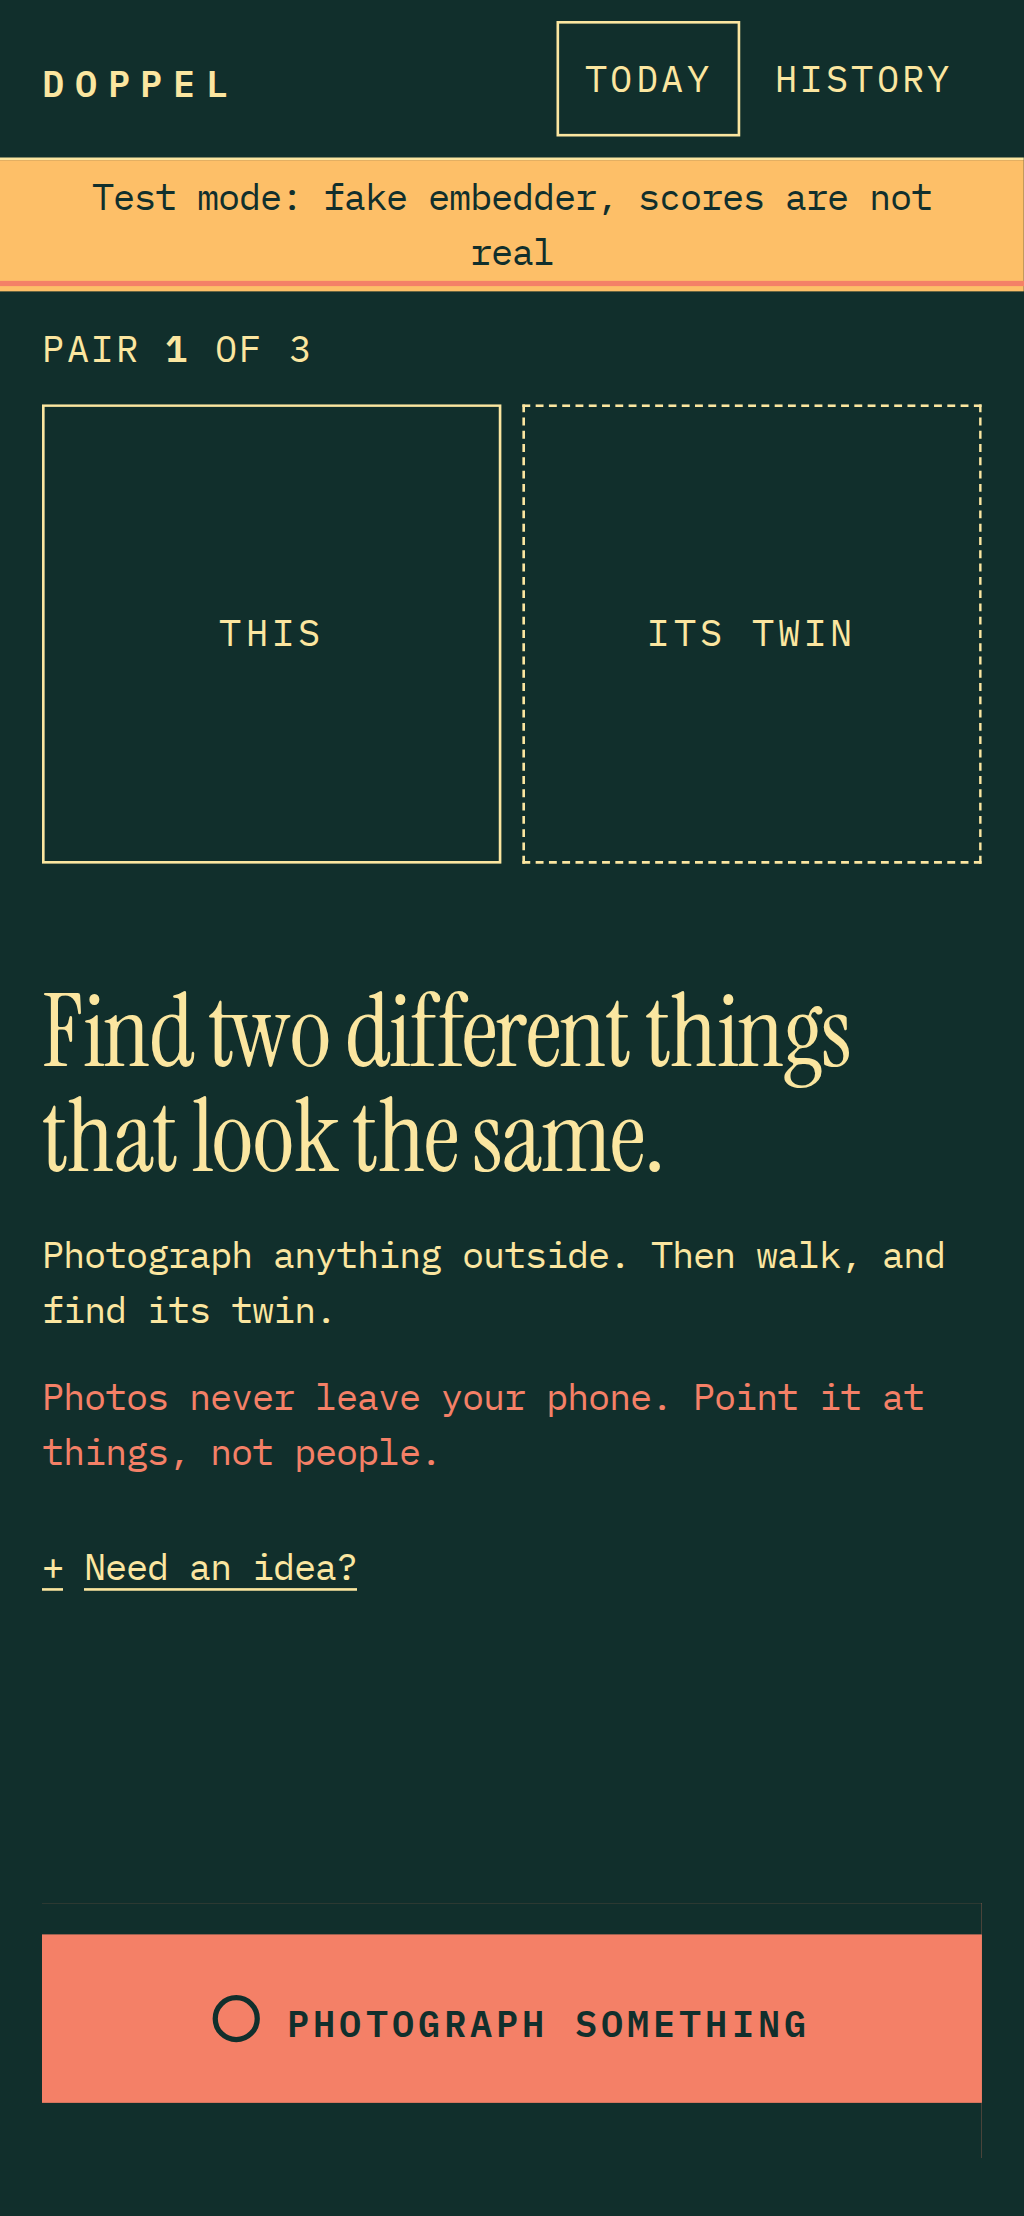
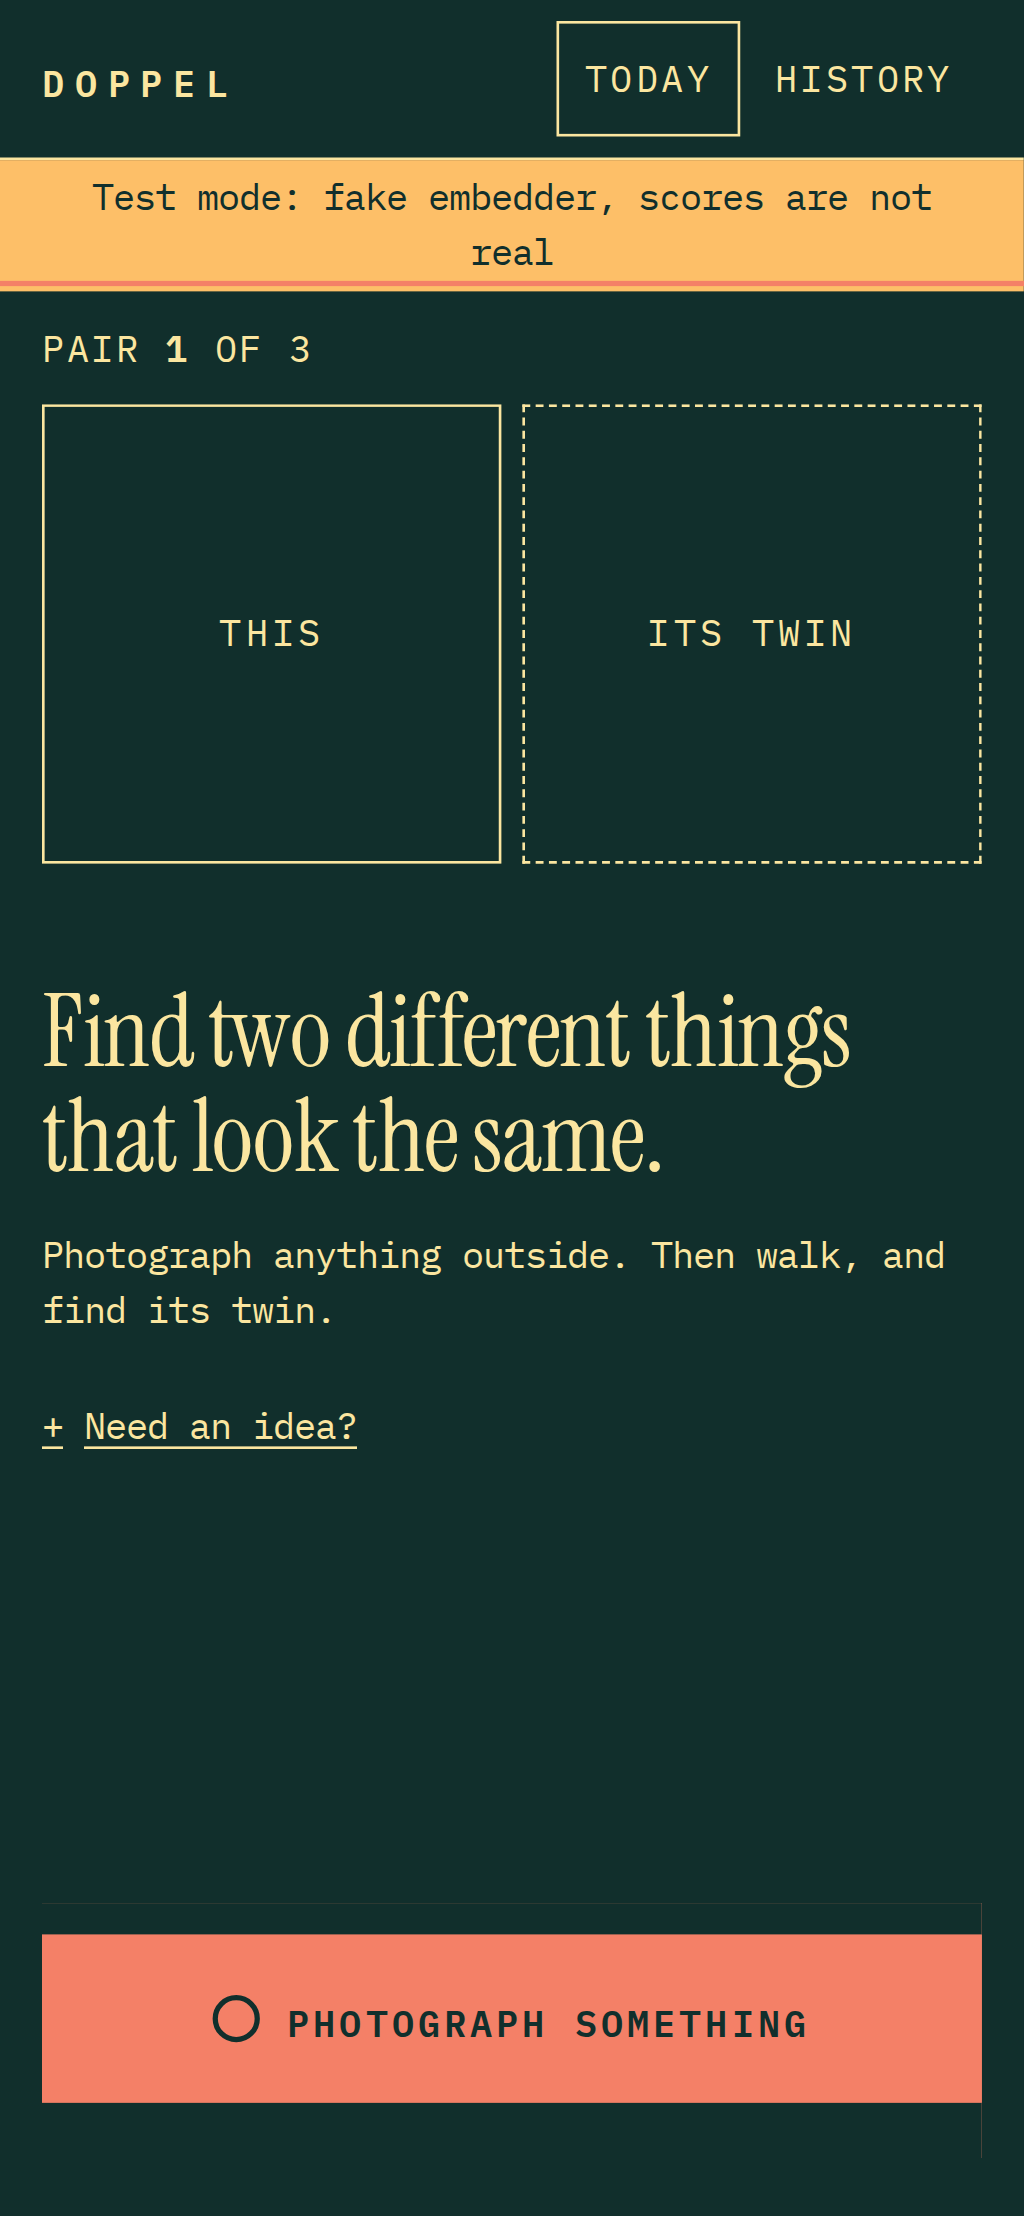
D5: first run practice reveal while the model downloads

diff --git a/web/src/ui/screens.ts b/web/src/ui/screens.ts
@@ -2,7 +2,7 @@
 // the pair frame, two square slots side by side. Empty, it explains the game;
 // then the first print fills the left slot, the walk counts down in the right
 // one, the twin fills it, and at the reveal the two prints slide together.
-import { BANDS, BAND_NAMES, NOTHING_SHARED, type Band } from "../twin";
+import { band, BANDS, BAND_NAMES, NOTHING_SHARED, type Band } from "../twin";
 import type { PairState } from "../day";
 import { PAIRS_PER_DAY } from "../day";
 import type { WalkStatus } from "../walk";
@@ -49,7 +49,44 @@ const dock = (button: string, extra = "") => `
     ${extra}
   </div>`;
 
-export function firstView(pair: number, ideas: string[], firstRun: boolean): string {
+export interface Practice {
+  first: { label: string };
+  twin: { label: string };
+  score: number;
+  shared: string[];
+}
+
+/** First run: a real reveal of two bundled photos, played while the model downloads. */
+export function practiceView(p: Practice): string {
+  const b = band(p.score);
+  return `
+    <div class="practice" aria-label="Practice reveal" data-testid="practice">
+      <p class="label">A practice pair, while Doppel downloads</p>
+      <div class="pair together" id="practice-pair">
+        ${slot("a", `<canvas id="practice-a" aria-label="${esc(p.first.label)}, printed"></canvas>`)}
+        ${slot("b", `<canvas id="practice-b" aria-label="${esc(p.twin.label)}, printed"></canvas>`)}
+      </div>
+      <p class="labels">${esc(p.first.label)} <span aria-label="and">↔</span> ${esc(p.twin.label)}</p>
+      <p class="score compact" data-value="${p.score}"><span class="n">${p.score}</span><span class="of">/100</span> <span class="band-inline">${bandMarks(b)} ${BAND_NAMES[b].toUpperCase()}</span></p>
+      <p class="shared"><span class="label">What they share</span> Both: ${p.shared.map(esc).join(" · ")}</p>
+    </div>`;
+}
+
+export function firstView(pair: number, ideas: string[], firstRun: boolean, practice?: Practice): string {
+  if (firstRun && practice) {
+    return `
+    <section class="screen first" aria-label="First photo">
+      ${hud(pair)}
+      <h1 class="voice lede">Find two different things that look the same. Outside.</h1>
+      ${practiceView(practice)}
+      <p class="sub privacy">Photos never leave your phone. Point it at things, not people.</p>
+      <details class="ideas">
+        <summary>Need an idea?</summary>
+        <ul data-testid="ideas">${ideas.map((i) => `<li>${esc(i)}</li>`).join("")}</ul>
+      </details>
+      ${dock(shootButton("Photograph something"))}
+    </section>`;
+  }
   return `
     <section class="screen first" aria-label="First photo">
       ${hud(pair)}

diff --git a/web/src/main.ts b/web/src/main.ts
@@ -13,7 +13,8 @@ import { drawPrint, type Tone } from "./print";
 import { registerPwa } from "./pwa";
 import { parseHash } from "./router";
 import { dayKey, nextDayStart, type Place } from "./sun";
-import { checkShot, checkTwin, judgePair, PROBLEM_TEXT, readPhoto, topAttributes } from "./twin";
+import practice from "../../data/practice.json";
+import { band, checkShot, checkTwin, judgePair, PROBLEM_TEXT, readPhoto, topAttributes } from "./twin";
 import { mountDebug } from "./ui/debug";
 import { esc, render } from "./ui/dom";
 import { loadModelWithStatus } from "./ui/model-status";
@@ -110,6 +111,18 @@ function countUp(el: HTMLElement | null) {
 
 const timeOfDay = (t: number) => new Date(t).toLocaleTimeString([], { hour: "numeric", minute: "2-digit" });
 
+// ---------- first run: a practice reveal while the model downloads
+async function playPractice(seq: number) {
+  const [a, b] = await Promise.all([practice.first.src, practice.twin.src].map(async (src) => (await fetch(`${import.meta.env.BASE_URL}${src}`)).blob()));
+  if (seq !== routeSeq) return;
+  const ca = app.querySelector<HTMLCanvasElement>("#practice-a"), cb = app.querySelector<HTMLCanvasElement>("#practice-b");
+  if (!ca || !cb) return;
+  const tone = band(practice.score);
+  await Promise.all([drawPrint(ca, a, tone, 360), drawPrint(cb, b, tone, 360)]);
+  app.querySelector("#practice-pair")?.classList.add("met");
+  window.setTimeout(() => countUp(app.querySelector<HTMLElement>(".practice .score")), reducedMotion ? 0 : 450);
+}
+
 // ---------- Today
 async function loadToday() {
   place ??= await getMeta<Place>("place");
@@ -144,8 +157,9 @@ async function showToday(seq: number, force = false) {
   if (p.kind === "first") {
     const firstRun = !(await getMeta<boolean>("played"));
     if (seq !== routeSeq) return;
-    render(app, firstView(p.pair, ideasFor(day.day), firstRun));
+    render(app, firstView(p.pair, ideasFor(day.day), firstRun, firstRun ? practice : undefined));
     wireShoot(seq, "first");
+    if (firstRun) void playPractice(seq);
     return mountDebug(app);
   }
   if (p.kind === "walking") {

diff --git a/web/tests/e2e/day.spec.ts b/web/tests/e2e/day.spec.ts
@@ -51,7 +51,8 @@ test("first run: the first screen explains the game, shows the privacy line and 
     geo.watchPosition = (...a: Parameters<typeof orig>) => ((window as any).__permAsked("geolocation"), orig(...a));
   });
   await open(page);
-  await expect(page.getByRole("heading", { level: 1 })).toHaveText("Find two different things that look the same.");
+  await expect(page.getByRole("heading", { level: 1 })).toHaveText("Find two different things that look the same. Outside.");
+  await expect(page.getByTestId("practice")).toBeVisible();
   await expect(page.getByText("Photos never leave your phone.")).toBeVisible();
   await expect(page.getByText("Photograph something")).toBeVisible();
   await page.clock.runFor(2000);
@@ -60,6 +61,12 @@ test("first run: the first screen explains the game, shows the privacy line and 
 
 test("full day: 3 pairs, reveal, best pair, done for today", async ({ page }) => {
   await open(page);
+  await page.clock.runFor(1500);
+  await expect(page.locator(".practice .score .n")).toHaveText("85");
+  await snap(page, "0-first-run", true);
+  // after the first accepted shot the practice reveal is gone for good
+  await page.evaluate(() => new Promise<void>((r) => { const q = indexedDB.open("doppel"); q.onsuccess = () => { const tx = q.result.transaction("meta", "readwrite"); tx.objectStore("meta").put(true, "played"); tx.oncomplete = () => r(); }; }));
+  await page.reload();
   await snap(page, "1-first", true);
   await page.getByText("Need an idea?").click();
   await expect(page.getByTestId("ideas").locator("li")).toHaveCount(3);

diff --git a/web/tests/e2e/first-run.spec.ts b/web/tests/e2e/first-run.spec.ts
@@ -1,0 +1,22 @@
+import { expect, test } from "@playwright/test";
+import { expectAccessible } from "./helpers";
+
+// The real embedder (no ?embedder=fake), on a throttled network, with the
+// 388 MB model download held open: the practice reveal must play anyway.
+test("practice reveal and privacy line render before the model is ready @small", async ({ page, context }) => {
+  await context.route(/huggingface\.co|\.litertlm/, () => new Promise(() => {})); // never answers
+  const cdp = await context.newCDPSession(page);
+  await cdp.send("Network.emulateNetworkConditions", { offline: false, latency: 400, downloadThroughput: 50_000, uploadThroughput: 20_000 });
+  await page.goto("/#/");
+  const practice = page.getByTestId("practice");
+  await expect(practice).toBeVisible({ timeout: 20_000 });
+  await expect(practice.locator(".labels")).toHaveText(/cloud\s*↔\s*cotton/);
+  await expect(practice.locator(".score .n")).toHaveText("85", { timeout: 20_000 });
+  await expect(practice).toContainText("Both: fluffy · puffy · white");
+  await expect(page.getByText("Photos never leave your phone.")).toBeVisible();
+  // the model isn't ready: shooting is disabled and the status says why
+  await expect(page.locator("#photo")).toBeDisabled();
+  await expect(page.locator("#model-status")).not.toBeEmpty();
+  await expect(page.locator(".test-banner")).toHaveCount(0);
+  await expectAccessible(page, "first-run");
+});

diff --git a/web/src/style.css b/web/src/style.css
@@ -88,6 +88,15 @@ main { max-width: 520px; margin: 0 auto; padding: 0 var(--gutter); outline: none
 .shared { text-align: center; margin: 4px 0 0; }
 .shared .label { display: block; }
 
+/* ---------- first run: practice reveal */
+.lede { margin-top: 14px; }
+.practice { border-top: var(--rule); padding-top: 8px; }
+.practice .label { margin: 0 0 8px; }
+.practice .pair { max-width: 300px; margin: 0 auto; }
+.score.compact { font-size: var(--t-m); }
+.score.compact .n { font-size: 1em; }
+.band-inline { font-size: var(--t-s); font-weight: 400; letter-spacing: .14em; margin-left: 8px; vertical-align: middle; }
+
 /* ---------- walk (pocket screen): no chrome, nothing to stare at */
 body[data-phase="walking"] .topbar, body[data-phase="walking"] .test-banner { display: none; }
 .walk { min-height: 100dvh; justify-content: center; }

diff --git a/web/vite.config.ts b/web/vite.config.ts
@@ -47,7 +47,7 @@ const localModels = (): Plugin => {
 // service worker caches the one WASM variant a browser uses.
 // The vocab vectors (public/vocab-<hash>.bin) are precached too: no shot can be scored without them.
 const VOCAB_FILE = JSON.parse(readFileSync("../data/vocab-vectors.json", "utf8")).file;
-const PUBLIC_PRECACHE = ["index.html", "manifest.webmanifest", "icon.svg", "icon-192.png", "icon-512.png", VOCAB_FILE];
+const PUBLIC_PRECACHE = ["index.html", "manifest.webmanifest", "icon.svg", "icon-192.png", "icon-512.png", VOCAB_FILE, "practice/cloud.jpg", "practice/cotton.jpg"];
 const serviceWorker = (): Plugin => ({
   name: "service-worker",
   apply: "build",

diff --git a/web/public/practice/CREDITS.md b/web/public/practice/CREDITS.md
@@ -1,0 +1,8 @@
+# Practice reveal photos
+
+Shown on first run while the model downloads. Both CC0, downscaled to 640 px.
+
+| File | Title | Author | License | Source |
+|---|---|---|---|---|
+| `cloud.jpg` | Cumulus clouds in the sky | desilia | CC0 | https://commons.wikimedia.org/wiki/File:Cumulus_clouds_in_the_sky.jpg |
+| `cotton.jpg` | Mature Cotton Boll | Alabama Extension | CC0 1.0 | https://www.flickr.com/photos/184594136@N08/51565972685 |
